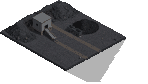
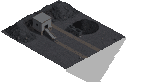
v0.10.2: Gebäude ohne Sockel, Höfe, neue Spedition, iOS-Streifen-Abhilfe
Claude-Session: https://claude.ai/code/session_01Vg4LCLQSsd6zUmqt37DqCy

Changed region(s): [[0.0, 0.381, 0.8649, 0.8571]]

diff --git a/src/rendering/groundBaker.js b/src/rendering/groundBaker.js
@@ -5,6 +5,7 @@
 import { TERRAIN_RAMPS, TERRAIN_COUNT, COLORS, T, DEPOSIT_GROUND } from '../config/terrain.js';
 import { rgba, hashI } from './pix.js';
 import { ROADS } from '../config/roads.js';
+import { BUILDINGS } from '../config/buildings.js';
 
 export const RAMP = new Uint32Array(TERRAIN_COUNT * 5);
 TERRAIN_RAMPS.forEach((r, t) => r.forEach((h, i) => { RAMP[t * 5 + i] = rgba(h); }));
@@ -25,6 +26,24 @@ const FIELD = [
   [['#cfd6d9', '#e2e7e9'], ['#cfd6d9', '#e2e7e9']],          // Schnee
 ].map((ph) => ph.map((c) => c.map((h) => rgba(h))));
 const PASTURE = rgba('#6d8f47');
+// Ausgetretener Boden rund um Gebäude, damit die Grundplatten nicht wie aufgeklebt wirken
+const YARD = [rgba('#7a6849'), rgba('#887657'), rgba('#6f6a48')];
+const YARD_R = 0.7;
+
+// Grundflächen der Gebäude, die diese Kachel berühren (Feldraster)
+function yardRects(state, minX, maxX, minY, maxY) {
+  const out = [];
+  const add = (b) => {
+    const def = BUILDINGS[b.type];
+    if (!def || def.category === 'deco') return;
+    const w = def.footprint.width, h = def.footprint.height;
+    if (b.x - YARD_R > maxX || b.x + w + YARD_R < minX || b.y - YARD_R > maxY || b.y + h + YARD_R < minY) return;
+    out.push(b.x, b.y, b.x + w, b.y + h);
+  };
+  for (const b of state.buildings || []) add(b);
+  for (const b of state.npcBuildings || []) add(b);
+  return out;
+}
 
 function mixCol(a, b, k) {
   const r = (a & 255) + ((b & 255) - (a & 255)) * k;
@@ -138,6 +157,7 @@ export function bakeGround(store, wx0, wy0, size, res, img) {
   const anyRoad = store.state.roads.size > 0;
   const gm = store.state.gameMonths || 0, mi = Math.floor(gm) % 12;
   const winter = mi === 11 || mi <= 1;
+  const yards = yardRects(store.state, minX, maxX, minY, maxY), ny = yards.length;
 
   for (let py = 0; py < size; py++) {
     const wy = wy0 + (py + 0.5) * inv;
@@ -223,6 +243,22 @@ export function bakeGround(store, wx0, wy0, size, res, img) {
             const k = cov > 0.5 ? 0.62 : 0.4;
             col = mixCol(col, dc, k);
           }
+        }
+      }
+      // Hof: weicher Übergang aus festgetretener Erde rund um Gebäude
+      if (ny && t > RIVER) {
+        let dmin = YARD_R;
+        for (let k = 0; k < ny; k += 4) {
+          const dx = jfx < yards[k] ? yards[k] - jfx : jfx > yards[k + 2] ? jfx - yards[k + 2] : 0;
+          const dy = jfy < yards[k + 1] ? yards[k + 1] - jfy : jfy > yards[k + 3] ? jfy - yards[k + 3] : 0;
+          if (dx >= dmin || dy >= dmin) continue;
+          const d = Math.sqrt(dx * dx + dy * dy);
+          if (d < dmin) dmin = d;
+        }
+        if (dmin < YARD_R) {
+          const f = 1 - dmin / YARD_R;
+          const k = f * 0.95 + (n - 128) * 0.002;
+          if (k > 0.12) col = mixCol(col, YARD[n < 90 ? 0 : n < 200 ? 1 : 2], k > 0.8 ? 0.8 : k);
         }
       }
       // Winter: Schnee auf dem Land (Wasser bleibt offen)

diff --git a/src/main.js b/src/main.js
@@ -323,7 +323,7 @@ function tryPlace() {
   const def = BUILDINGS[placing];
   const b = placement.place(placing, ghostPos.x, ghostPos.y);
   if (!b) return;
-  renderer.invalidateTiles(b.x, b.y, def.footprint.width, def.footprint.height);
+  renderer.invalidateTiles(b.x, b.y, def.footprint.width, def.footprint.height, def.category !== 'deco');
   if (b._fieldBox) { const f = b._fieldBox; renderer.invalidateTiles(f.x0, f.y0, f.x1 - f.x0 + 1, f.y1 - f.y0 + 1, true); }
   if (b.site) {
     const short = v.matShort && v.matShort.length ? ' · Material fehlt noch – die Baustelle wartet darauf' : '';
@@ -736,6 +736,27 @@ window.addEventListener('resize', resize);
 if (window.visualViewport) window.visualViewport.addEventListener('resize', resize);
 if (window.ResizeObserver) new ResizeObserver(() => resize()).observe(document.body);
 window.addEventListener('orientationchange', () => setTimeout(resize, 200));
+
+// iOS-Homescreen-App: Nach dem ersten Öffnen der Tastatur (z. B. Siedlung benennen) bleibt die
+// Ansicht um die Höhe der Statusleiste zu kurz – unten erscheint ein leerer Streifen.
+// Abhilfe: nach dem Schließen der Tastatur das Layout neu vermessen lassen.
+let maxViewH = window.innerHeight;
+window.addEventListener('resize', () => { maxViewH = Math.max(maxViewH, window.innerHeight); });
+function healViewport() {
+  if (maxViewH - window.innerHeight <= 4) return;
+  const el = document.body;
+  el.style.display = 'none';
+  void el.offsetHeight;
+  el.style.display = '';
+  window.scrollTo(0, 0);
+  resize();
+}
+document.addEventListener('focusout', (e) => {
+  if (!e.target || !/^(INPUT|TEXTAREA|SELECT)$/.test(e.target.tagName)) return;
+  setTimeout(healViewport, 140);
+  setTimeout(healViewport, 600);
+});
+document.addEventListener('visibilitychange', () => { if (!document.hidden) setTimeout(healViewport, 300); });
 document.addEventListener('visibilitychange', () => { if (document.hidden) saveNow(); else dirty = true; });
 window.addEventListener('pagehide', saveNow);
 

diff --git a/src/config/gameConfig.js b/src/config/gameConfig.js
@@ -1,6 +1,6 @@
 // Zentrale Spielkonfiguration. Alle Werte hier sind bewusst leicht anpassbar.
 
-export const GAME_VERSION = '0.10.1';
+export const GAME_VERSION = '0.10.2';
 export const SAVE_SCHEMA_VERSION = 7;
 
 export const CONFIG = {

diff --git a/tools/flatten_plinth.py b/tools/flatten_plinth.py
@@ -1,0 +1,45 @@
+"""Entfernt die Seitenflächen (Sockel) unter den Grundplatten der Gebäudebilder.
+
+Die Higgsfield-Bilder zeigen Gebäude oft auf einer dicken Platte. Im Spiel wirkt das, als
+würde das Gebäude über dem Boden schweben. Dieses Werkzeug schneidet pro Spalte die
+untersten N Pixel ab (N aus tools/plinth_table.json), legt auf der Schattenseite (rechts)
+Schlagschatten an die Stelle und verschiebt den Ankerpunkt, damit die Oberkante der Platte
+auf dem Boden liegt. Bereits bearbeitete Sprites sind im Manifest mit "plinthCut" markiert.
+
+Aufruf: python3 -I tools/flatten_plinth.py
+"""
+import json
+import numpy as np
+from PIL import Image
+
+man_path = 'assets/manifest.json'
+man = json.load(open(man_path))
+table = {k: v for k, v in json.load(open('tools/plinth_table.json')).items() if not k.startswith('_')}
+for name, t in table.items():
+    sp = man['sprites'].get(name)
+    if not sp or sp.get('plinthCut'):
+        continue
+    path = 'assets/' + sp['file']
+    a = np.array(Image.open(path).convert('RGBA'))
+    op = a[..., 3] == 255
+    ys, xs = np.where(op)
+    bottom = ys.max()
+    bx = int(round(xs[ys >= bottom - 1].mean()))
+    for x in range(a.shape[1]):
+        c = np.where(op[:, x])[0]
+        if not len(c):
+            continue
+        b = c.max()
+        for y in range(b - t + 1, b + 1):
+            if not op[y, x]:
+                continue
+            if x > bx:
+                a[y, x] = (12, 12, 12, 80)   # Schattenseite: Schlagschatten statt Sockel
+            else:
+                a[y, x] = (0, 0, 0, 0)
+    Image.fromarray(a, 'RGBA').save(path)
+    sp['ay'] = sp['ay'] - t
+    sp['plinthCut'] = t
+    print('flach:', name, t)
+json.dump(man, open(man_path, 'w'), indent=2, ensure_ascii=False)
+open(man_path, 'a').write('\n')

diff --git a/docs/ENTSCHEIDUNGEN_OPTIK_2.md b/docs/ENTSCHEIDUNGEN_OPTIK_2.md
@@ -1,0 +1,35 @@
+# Entscheidungen – Optik 2 (Version 0.10.2)
+
+Stand: 17.11.2026. Neues Dokument; ENTSCHEIDUNGEN_OPTIK.md bleibt unverändert.
+
+## Gebäude stehen auf dem Boden statt auf einem Sockel
+**Problem:** Viele Higgsfield-Bilder zeigen das Gebäude auf einer dicken Platte mit sichtbaren Seitenflächen. Im Spiel wirkte das, als würde der Boden des Gebäudes sich abheben.
+
+**Lösung:**
+- `tools/flatten_plinth.py` schneidet pro Spalte die untersten N Pixel ab. N steht pro Sprite in `tools/plinth_table.json`.
+- Auf der Schattenseite (rechts) tritt Schlagschatten an die Stelle des Sockels.
+- Der Ankerpunkt wird um N nach oben verschoben. Die Oberkante der Platte liegt damit genau auf der Grundfläche.
+- Das Manifest markiert bearbeitete Sprites mit `plinthCut`, damit nichts doppelt geschnitten wird.
+- Die Werte wurden von Hand an Nahaufnahmen der Kanten bestimmt.
+  - Die meisten Sprites haben 1–4 px.
+  - Der Drohnenflugplatz hat 8 px.
+- **Wichtig:** `asset_batch.py` erzeugt die Bilder neu, mit Sockel. Danach muss `flatten_plinth.py` erneut laufen.
+
+## Hof um Gebäude
+- Der Bodenbacker mischt rund um jede Gebäudegrundfläche festgetretene Erde ein.
+- Die Breite ist 0,7 Feld, der Rand ist verrauscht und läuft weich aus.
+- Die Grundplatten wirken dadurch nicht mehr aufgeklebt.
+- Deko-Objekte bekommen keinen Hof.
+- Beim Bauen wird deshalb auch der Boden neu gebacken.
+
+## Neues Speditionsbild
+- Flo hat ein neues Bild geliefert: Halle mit drei Rolltoren, drei Transportern, Zapfsäule und Reifenstapeln.
+- Datei: `assets/buildings/logistics/haulage_02.png`. Das alte Bild `haulage_01.png` bleibt liegen, wird aber nicht mehr benutzt.
+
+## iPhone-Homescreen: blauer Streifen unten
+**Ursache:** Ein bekannter iOS-Fehler in Homescreen-Web-Apps. Nach dem ersten Öffnen der Tastatur, etwa beim Benennen der Siedlung, bleibt die Ansicht um die Höhe der Statusleiste (etwa 59 pt) zu kurz.
+
+**Abhilfe:**
+- Nach dem Schließen der Tastatur und beim Zurückkehren in die App wird das Layout neu vermessen.
+- Dazu wird `body` kurz ausgeblendet und eine Neuberechnung erzwungen. Das geschieht nur, wenn die Höhe unter dem bisher gemessenen Maximum liegt.
+- Auf einem echten Gerät ist das noch nicht geprüft.

diff --git a/README.md b/README.md
@@ -1,7 +1,7 @@
 # OUTPOST
 
 Isometrisches Endlos-Aufbauspiel auf einem neu besiedelten Planeten.
-Stand: **Version 0.10.1** – Phase 1–4, Stufe A (Versorgung), Stufe B (Logistik), Brücken, Computer-Nachbarn, Handel, Cheat-Modus, dazu Drohnenflugplatz, neue Wohnhäuser, Deko und Tag/Nacht (siehe docs/ENTSCHEIDUNGEN_LEBEN_2.md).
+Stand: **Version 0.10.2** – Phase 1–4, Stufe A (Versorgung), Stufe B (Logistik), Brücken, Computer-Nachbarn, Handel, Cheat-Modus, dazu Drohnenflugplatz, neue Wohnhäuser, Deko und Tag/Nacht (siehe docs/ENTSCHEIDUNGEN_LEBEN_2.md).
 
 Der vollständige Arbeitsauftrag steht unverändert in `CLAUDE.md`.
 Entscheidungen, die davon abweichen oder ihn konkretisieren, stehen in `docs/ENTSCHEIDUNGEN.md` (Phase 1)
